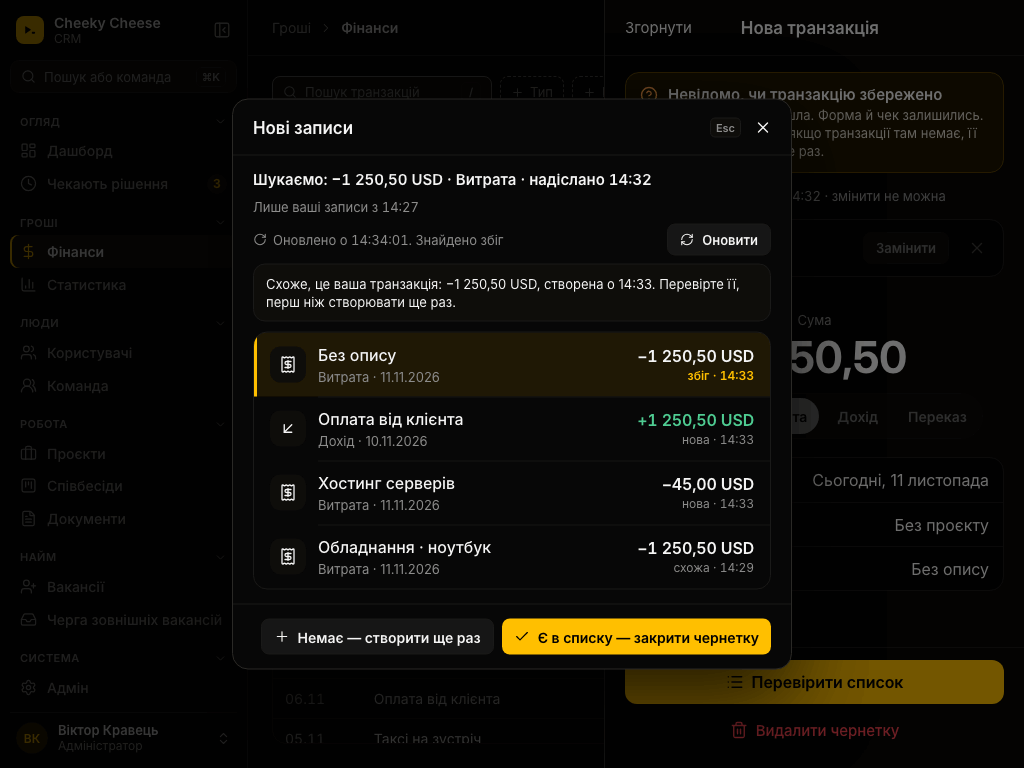
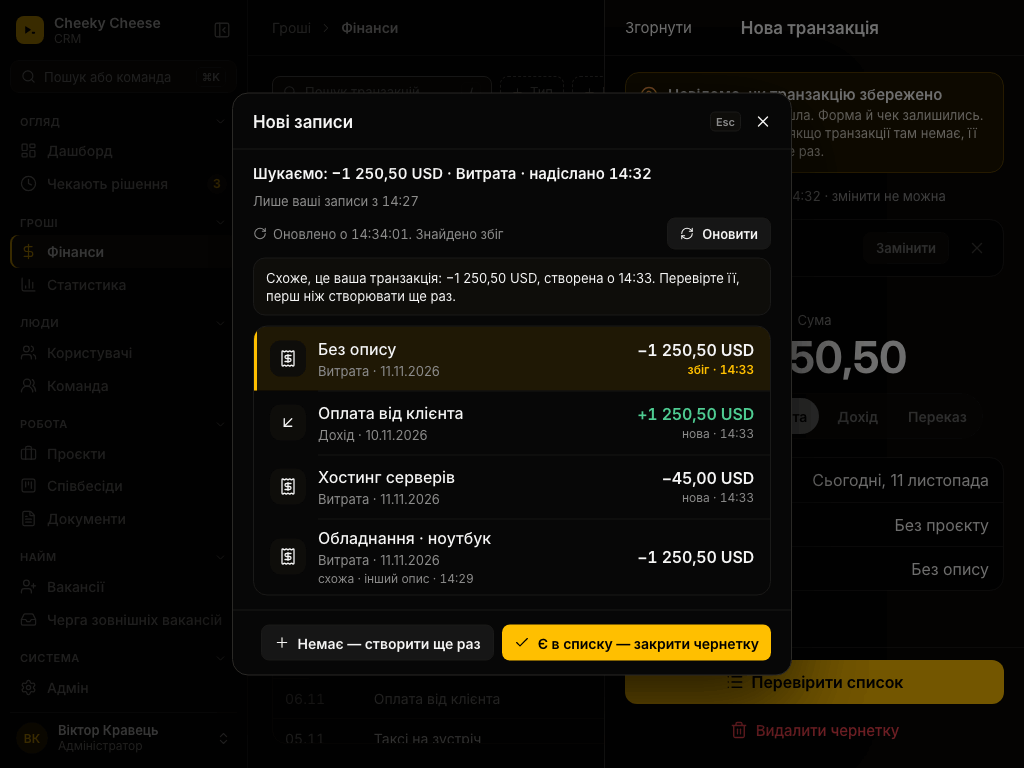
wip: exact «схожа», named difference, one primary (R9 C)

diff --git a/docs/design/foundation.md b/docs/design/foundation.md
@@ -363,7 +363,7 @@ reference widths below. Mobile-first: the base is mobile, scale up with `sm` / `
     and unlock a duplicate; the query starts 5 minutes before `t`, and the sub-header names that real
     bound. **A highlight means a match, by payload and by server time:** each refetch computes `offset = server − device` from the response `Date` header, and a row is a «збіг» only when every sent field is equal (amount, currency, type, business date, project, description or recipient) **and** its `created_at >= t + offset − 5 s`; that row
     gets the full highlight (a tint, a 3 px yellow bar) and «збіг · 14:33»
-    (`toast-error-unknown-match-375.png`). A row with the same amount that fails either test reads «схожа» and never becomes a «збіг», so «Є в списку — закрити чернетку» keeps its named confirm. **A «схожа» after the send is a warning, not noise:** an equal-amount row that passes the time test but whose payload differs (for example, the server trimmed the description) is the likeliest real commit. It takes the warning tone (`--warning`, «схожа · 14:33», not muted), the status reads «Оновлено о 14:34:01. Знайдено схожу» (never the unlock), and the close confirm and the recreate confirm both name it («У списку є схожа о 14:33») (`confirm-recreate-375`). A «схожа» that fails the time test stays muted («схожа · 14:29», `toast-error-unknown-match-375`). Without a `Date` header no row is a «збіг»: every equal-amount row is «схожа». The query still starts at `t − 5 хв`, so a fast device clock cannot hide the row. Every other new row shows only «нова ·
+    (`toast-error-unknown-match-375.png`). **«схожа» means the same type, currency and amount, with at least one other sent field different**; a row with a different type or currency is «нова», whatever its amount (so «Оплата від клієнта +1 250,50 USD · Дохід» beside a 1 250,50 USD expense draft is «нова»). A «схожа» row names the field that differs: «схожа · інший опис · 14:33» (or «інший проєкт», «інша дата», «інший отримувач»; two or more: «схожа · інші дані · 14:33»); rows never open a detail inside the sheet. A row whose every sent field matches but fails the time test reads «раніше · 14:29». On a phone a tag that names the difference takes its own line under the row's meta, so the title never truncates. A «схожа» never becomes a «збіг», so «Є в списку — закрити чернетку» keeps its named confirm. **A «схожа» after the send is a warning, not noise:** an equal-amount row that passes the time test but whose payload differs (for example, the server trimmed the description) is the likeliest real commit. It takes the warning tone (`--warning`, «схожа · інший опис · 14:33», not muted), the hint names the same field («У списку є схожа о 14:33: та сама сума, інший опис. Перевірте її, перш ніж створювати ще раз.»), the status reads «Оновлено о 14:34:01. Знайдено схожу» (never the unlock), «Є в списку — закрити чернетку» becomes the one filled primary (its named confirm stays), the close confirm reads «Закрити чернетку 1 250,50 USD? Збігу немає, але є схожа о 14:33.» instead of the base «У списку її не знайдено», and the recreate confirm adds «У списку є схожа о 14:33» (`toast-error-unknown-similar-375`, `confirm-recreate-375`). A «схожа» that fails the time test stays muted («схожа · інший опис · 14:29», `toast-error-unknown-match-375`). Without a `Date` header no row is a «збіг»: every row with the same type, currency and amount is «схожа» (naming a differing field when there is one). The query still starts at `t − 5 хв`, so a fast device clock cannot hide the row. Every other new row shows only «нова ·
     14:33» in `--muted-foreground`: only «збіг» uses the brand yellow (§7.5). With
     new rows but no match the line «Збігів немає» sits above the exits; with no new rows the body reads
     «Нових записів з 14:27 немає» (`toast-error-unknown-empty-375.png`). A 44 px «Оновити»
@@ -376,7 +376,7 @@ reference widths below. Mobile-first: the base is mobile, scale up with `sm` / `
     primary (`toast-error-unknown-match-375.png`), the hint names the row («Схоже, це ваша транзакція: −1 250,50 USD, створена о 14:33. Перевірте її, перш ніж створювати ще раз.») and the
     recreate confirm adds «У списку є збіг о 14:33» to its description. **Without a «збіг» row «Є в
     списку — закрити чернетку» confirms first** (the list is empty, failed to load or has no match),
-    because it drops the frozen payload: «Закрити чернетку 1 250,50 USD? У списку її не знайдено» (`toast-error-unknown-empty-375.png`). With a match
+    because it drops the frozen payload: «Закрити чернетку 1 250,50 USD? У списку її не знайдено» (`toast-error-unknown-empty-375.png`); with a warning «схожа» and no «збіг» it reads «Закрити чернетку 1 250,50 USD? Збігу немає, але є схожа о 14:33.». With a match
     it stays one tap.
   - **The 60 s gate counts from the moment the failure arrived**, never from the send: nginx closes an
     upstream read after 60 s (`proxy_read_timeout 60s`) and Cloudflare after 100 s, so a timeout can
@@ -424,7 +424,7 @@ reference widths below. Mobile-first: the base is mobile, scale up with `sm` / `
   | **Success**                                                                                                                                                         | Sheet open: it closes. The pill holds «Збережено 1 250,50 USD · Відкрити» **until tapped or dismissed** (a 44 px ✕ «Закрити» or a swipe; `upload-pill-saved-375.png`); one announcement «Транзакцію збережено». The row appears in the list after the server confirms. Under a failed or unknown pill a success shows as a normal success toast stacked above the pill; the pill keeps its own state                                                                                                                                                                                                    | The one create, 2xx. The marker is removed                                                                                                                                                                                                                                          | The pill body opens the transaction; ✕ or a swipe only dismisses; either way the draft is gone                                                                                                                                                                                                                                                                                                                                                                                                                                                                                                                                                                                                                                                                                                                                                                                                       |
   | **Definite failure** (422 or any definite case above)                                                                                                               | Sheet open: the inline alert from the failure rules. Sheet closed: the pill holds «Не збережено 1 250,50 USD · Відкрити» **until tapped** (`upload-pill-failed-375.png`); one announcement «Транзакцію не збережено». Фінанси pins the draft row                                                                                                                                                                                                                                                                                                                                                        | The one create wrote nothing. The marker switches to `{ t: <failure time>, phase: 'failed' }` (no finance data) for as long as the draft exists (the **Definite failure while hidden** row)                                                                                         | A pill or row tap reopens the draft with the alert; the draft stays editable and a save sends one new request with no gate. «Згорнути» keeps it (the **Close** row); «Видалити чернетку» discards it                                                                                                                                                                                                                                                                                                                                                                                                                                                                                                                                                                                                                                                                                                 |
   | **Definite failure while hidden** (the PWA is in the background when it arrives, or the OS kills it afterwards)                                                     | Nothing new on screen: the pill, the pinned row and the FAB dot wait for the next visible moment. After a kill the next boot shows the `failed` alert, built like the `armed` one: «Транзакцію не збережено: о 14:32 збереження не вдалося. Створіть її ще раз.» with «Зрозуміло» (`primitives-v2/alert-pagekill-failed-375.png`)                                                                                                                                                                                                                                                                       | Nothing is sent. The marker stays `failed` for as long as the draft exists: only a save, «Видалити чернетку» or the acknowledged boot alert removes it. Opening the draft, seeing the failure or «Згорнути» never does, so an iOS kill after «Згорнути» still raises the boot alert | «Зрозуміло» removes every `failed` marker and the alert; without a kill, the pill or the row opens the draft                                                                                                                                                                                                                                                                                                                                                                                                                                                                                                                                                                                                                                                                                                                                                                                         |
-  | **Unknown outcome**                                                                                                                                                 | Sheet open: the unknown alert. Sheet closed: the pill holds «Результат невідомий» · «1 250,50 USD · Відкрити» until tapped (`upload-pill-unknown-375.png`); Фінанси pins the draft row (`listrow-draft-375.png`). Inside the draft, «Перевірити список» opens the check sheet (the failure rules above; `toast-error-unknown-list-375.png`)                                                                                                                                                                                                                                                             | The one create; it may have committed. **Nothing is re-sent automatically.** The marker stays `sent`                                                                                                                                                                                | «Є в списку — закрити чернетку»: one tap with a «збіг» row; without one the confirm «Закрити чернетку 1 250,50 USD? У списку її не знайдено» comes first. The draft closes, nothing is sent, the marker is removed. «Немає — створити ще раз» unlocks by the 60 s gate above, then the confirm «Створити 1 250,50 USD ще раз?» (`confirm-recreate-375.png`) and exactly **one** new create (the **Send** row again, a new `t`), built from the sent payload. «Згорнути» keeps the draft (the **Close** row); «Видалити чернетку» discards it                                                                                                                                                                                                                                                                                                                                                         |
+  | **Unknown outcome**                                                                                                                                                 | Sheet open: the unknown alert. Sheet closed: the pill holds «Результат невідомий» · «1 250,50 USD · Відкрити» until tapped (`upload-pill-unknown-375.png`); Фінанси pins the draft row (`listrow-draft-375.png`). Inside the draft, «Перевірити список» opens the check sheet (the failure rules above; `toast-error-unknown-list-375.png`)                                                                                                                                                                                                                                                             | The one create; it may have committed. **Nothing is re-sent automatically.** The marker stays `sent`                                                                                                                                                                                | «Є в списку — закрити чернетку»: one tap with a «збіг» row; without one the confirm «Закрити чернетку 1 250,50 USD? У списку її не знайдено» comes first («…? Збігу немає, але є схожа о 14:33.» when a warning «схожа» is listed). The draft closes, nothing is sent, the marker is removed. «Немає — створити ще раз» unlocks by the 60 s gate above, then the confirm «Створити 1 250,50 USD ще раз?» (`confirm-recreate-375.png`) and exactly **one** new create (the **Send** row again, a new `t`), built from the sent payload. «Згорнути» keeps the draft (the **Close** row); «Видалити чернетку» discards it                                                                                                                                                                                                                                                                               |
   | **Unknown draft: edit** (any attempt to change a field, the currency, the type or the receipt)                                                                      | Nothing changes: from send until the draft leaves the unknown state the form shows the sent values read-only, with «Надіслано о 14:32 · змінити не можна», and the optional fields expanded as read-only text (Дата, Проєкт, Опис) with no «змінити» link, so the user can recognise the row in the check sheet; every control is dimmed and `aria-disabled="true"`, still shown and announced (`primitives-v2/toast-error-unknown-375.png`)                                                                                                                                                            | Nothing. The marker stays `sent`. The check sheet, «Шукаємо: …» and «Немає — створити ще раз» use exactly the sent payload                                                                                                                                                          | To change a value the user discards the draft («Видалити чернетку») and creates a new one                                                                                                                                                                                                                                                                                                                                                                                                                                                                                                                                                                                                                                                                                                                                                                                                            |
   | **Check sheet: the refetch fails** (on open, at the gate or on «Оновити»)                                                                                           | `role="alert"` «Не вдалося оновити список» with a 44 px «Повторити» replaces the status line and the list; never the empty text, never «Збігів немає». The hint reads «Список не оновився. Створити транзакцію ще раз можна лише після того, як він оновиться.»; «Немає — створити ще раз» stays `aria-disabled` with no countdown (`primitives-v2/toast-error-unknown-refetch-failed-375.png`)                                                                                                                                                                                                         | Nothing. The marker stays `sent`                                                                                                                                                                                                                                                    | «Повторити» refetches. «Немає — створити ще раз» unlocks only after a **successful** refetch that ran at least 60 s after the failure arrived. «Є в списку — закрити чернетку» stays available, always behind its confirm (no row can match)                                                                                                                                                                                                                                                                                                                                                                                                                                                                                                                                                                                                                                                         |
   | **Session expired** (any request returns 401: a save, a refetch or a read)                                                                                          | Its own state «Сесія завершилася», never «Не вдалося зберегти» and never «Не вдалося оновити список». With no dirty form and no open money sheet the app goes to sign-in directly (today's behaviour). With a dirty form, an unknown draft or an open check sheet: `role="alertdialog"` «Сесія завершилася. Увійдіть знову, щоб продовжити.» with «Увійти знову» (primary) and «Скасувати»; only when a form is dirty does the body add «Незбережені дані форми та вибраний чек буде втрачено.» An open check sheet shows this alert, never «Повторити» (`primitives-v2/alert-session-expired-375.png`) | A save that got a 401 did not commit (the server refused it before the handler): its marker becomes `failed`, never `sent`. Every draft marker survives the sign-in, and the boot rules pick it up after it                                                                         | «Увійти знову» goes to sign-in (with a dirty form, the form and its receipt are lost; the markers stay). «Скасувати» closes the alert and keeps the screen; the next request that needs the session raises it again                                                                                                                                                                                                                                                                                                                                                                                                                                                                                                                                                                                                                                                                                  |

diff --git a/docs/design/screens/_foundation/primitives-v2.md b/docs/design/screens/_foundation/primitives-v2.md
@@ -340,7 +340,7 @@ must not share one UI (spec §4.5b):
   real bound), without filters or date sections, each row with its business date and its server
   creation time.
   **A highlight means a match, by payload and by server time:** each refetch computes `offset = server − device` from the response `Date` header, and a row is a «збіг» only when every sent field is equal (amount, currency, type, business date, project, description or recipient) **and** its `created_at >= t + offset − 5 s`; only that row gets the
-  tint, the 3 px yellow bar and «збіг · 14:33» (`toast-error-unknown-match-375`). A row with the same amount that fails either test reads «схожа» and never becomes a «збіг», so «Є в списку — закрити чернетку» keeps its named confirm. **A «схожа» after the send is a warning, not noise:** an equal-amount row that passes the time test but whose payload differs (for example, the server trimmed the description) is the likeliest real commit. It takes the warning tone (`--warning`, «схожа · 14:33», not muted), the status reads «Оновлено о 14:34:01. Знайдено схожу» (never the unlock), and the close confirm and the recreate confirm both name it («У списку є схожа о 14:33») (`confirm-recreate-375`). A «схожа» that fails the time test stays muted («схожа · 14:29», `toast-error-unknown-match-375`). Without a `Date` header no row is a «збіг»: every equal-amount row is «схожа». The query still starts at `t − 5 хв`, so a fast device clock cannot hide the row. Other new rows show
+  tint, the 3 px yellow bar and «збіг · 14:33» (`toast-error-unknown-match-375`). **«схожа» means the same type, currency and amount, with at least one other sent field different**; a row with a different type or currency is «нова», whatever its amount (so «Оплата від клієнта +1 250,50 USD · Дохід» beside a 1 250,50 USD expense draft is «нова»). A «схожа» row names the field that differs: «схожа · інший опис · 14:33» (or «інший проєкт», «інша дата», «інший отримувач»; two or more: «схожа · інші дані · 14:33»); rows never open a detail inside the sheet. A row whose every sent field matches but fails the time test reads «раніше · 14:29». On a phone a tag that names the difference takes its own line under the row's meta, so the title never truncates. A «схожа» never becomes a «збіг», so «Є в списку — закрити чернетку» keeps its named confirm. **A «схожа» after the send is a warning, not noise:** an equal-amount row that passes the time test but whose payload differs (for example, the server trimmed the description) is the likeliest real commit. It takes the warning tone (`--warning`, «схожа · інший опис · 14:33», not muted), the hint names the same field («У списку є схожа о 14:33: та сама сума, інший опис. Перевірте її, перш ніж створювати ще раз.»), the status reads «Оновлено о 14:34:01. Знайдено схожу» (never the unlock), «Є в списку — закрити чернетку» becomes the one filled primary (its named confirm stays), the close confirm reads «Закрити чернетку 1 250,50 USD? Збігу немає, але є схожа о 14:33.» instead of the base «У списку її не знайдено», and the recreate confirm adds «У списку є схожа о 14:33» (`toast-error-unknown-similar-375`, `confirm-recreate-375`). A «схожа» that fails the time test stays muted («схожа · інший опис · 14:29», `toast-error-unknown-match-375`). Without a `Date` header no row is a «збіг»: every row with the same type, currency and amount is «схожа» (naming a differing field when there is one). The query still starts at `t − 5 хв`, so a fast device clock cannot hide the row. Other new rows show
   «нова · 14:33» only, in `--muted-foreground` (only «збіг» uses the brand yellow); with new rows and no match «Збігів немає» sits above the exits; with none the
   body reads «Нових записів з 14:27 немає» (`toast-error-unknown-empty-375`). Money uses one
   notation, `<amount> <CODE>` (foundation §6). A 44 px «Оновити» refetches («Оновлено о 14:33:18» is
@@ -349,7 +349,7 @@ must not share one UI (spec §4.5b):
   the list, never the empty text or «Збігів немає»; the hint reads «Список не оновився. Створити
   транзакцію ще раз можна лише після того, як він оновиться.». A 401 is not a failed refetch: the sheet then shows the session alert «Сесія завершилася» instead of «Повторити» (`alert-session-expired-375`, foundation §11). Two exits under the list (with a «збіг» the first becomes the filled primary, the hint names the
   row «Схоже, це ваша транзакція: −1 250,50 USD, створена о 14:33. Перевірте її, перш ніж створювати ще раз.» and the recreate confirm adds «У списку є збіг о 14:33»): «Є в списку — закрити
-  чернетку» (closes the draft, sends nothing; one tap with a «збіг», otherwise the confirm «Закрити чернетку 1 250,50 USD? У списку її не знайдено»,
+  чернетку» (closes the draft, sends nothing; one tap with a «збіг», otherwise the confirm «Закрити чернетку 1 250,50 USD? У списку її не знайдено», or «…? Збігу немає, але є схожа о 14:33.» with a warning «схожа»,
   `toast-error-unknown-empty-375`) and «Немає — створити ще раз», which is `aria-disabled` (described by the hint
   line) until **60 s after the failure arrived** (not after the send: nginx `proxy_read_timeout 60s`
   and Cloudflare's 100 s mean a timeout can arrive after a send-based gate while the origin may still
